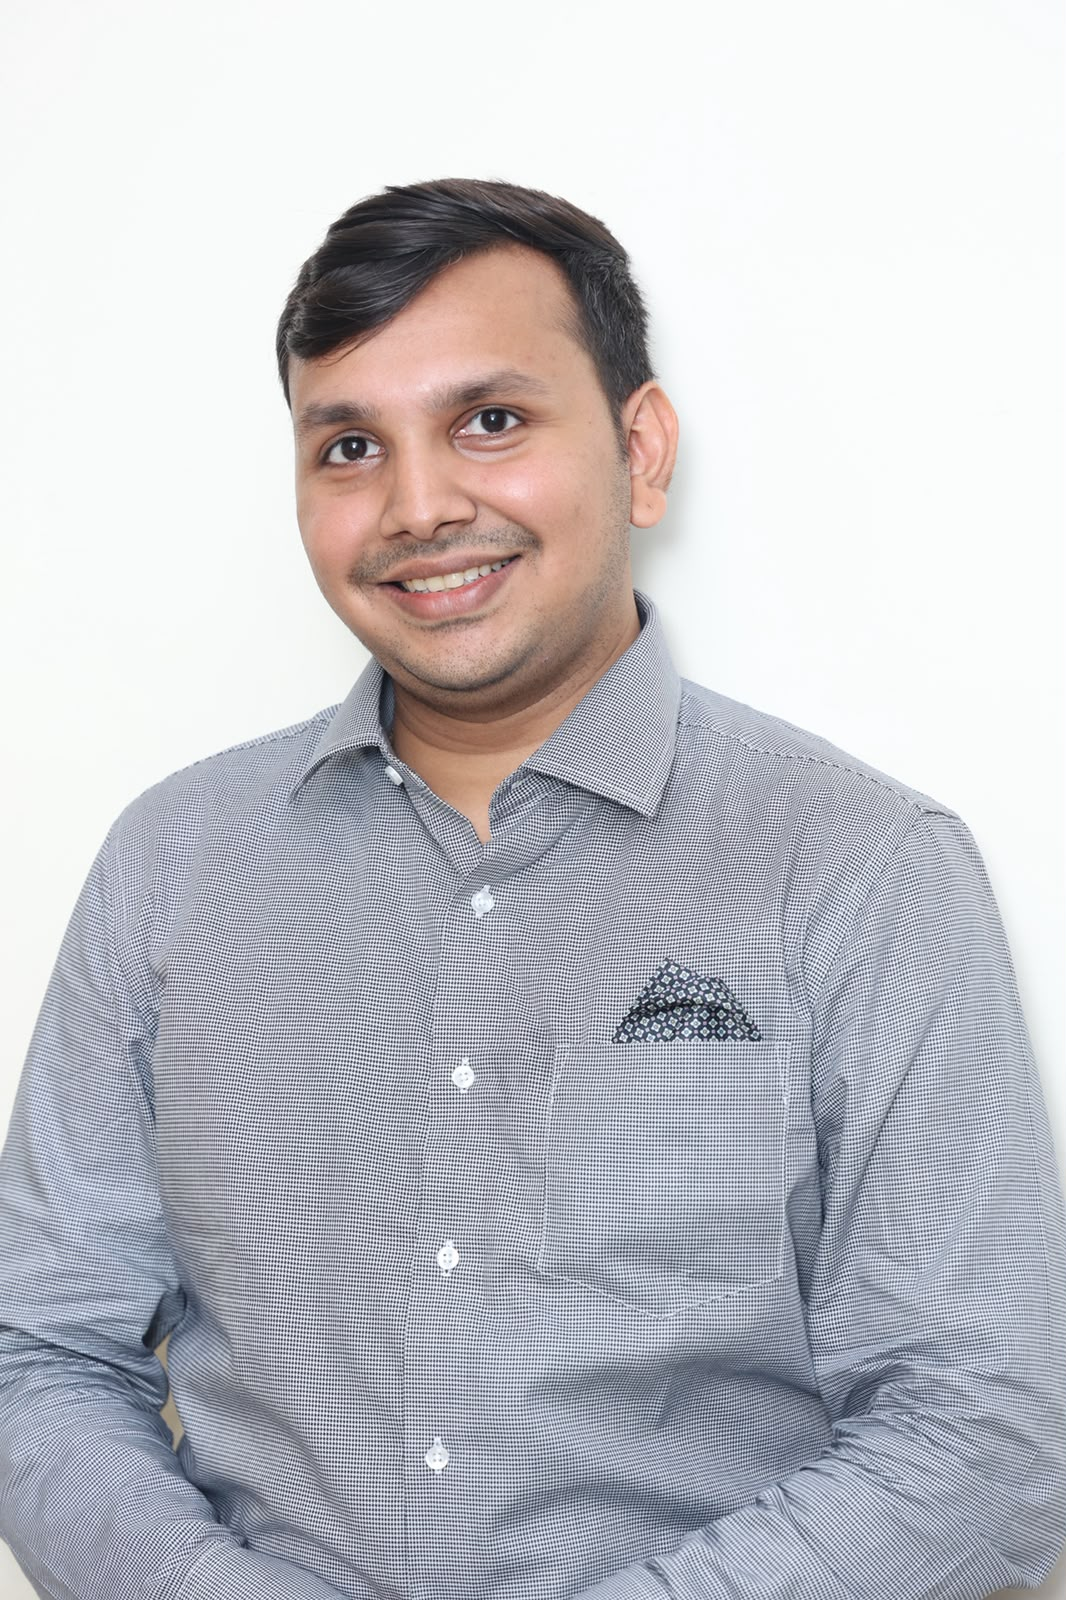
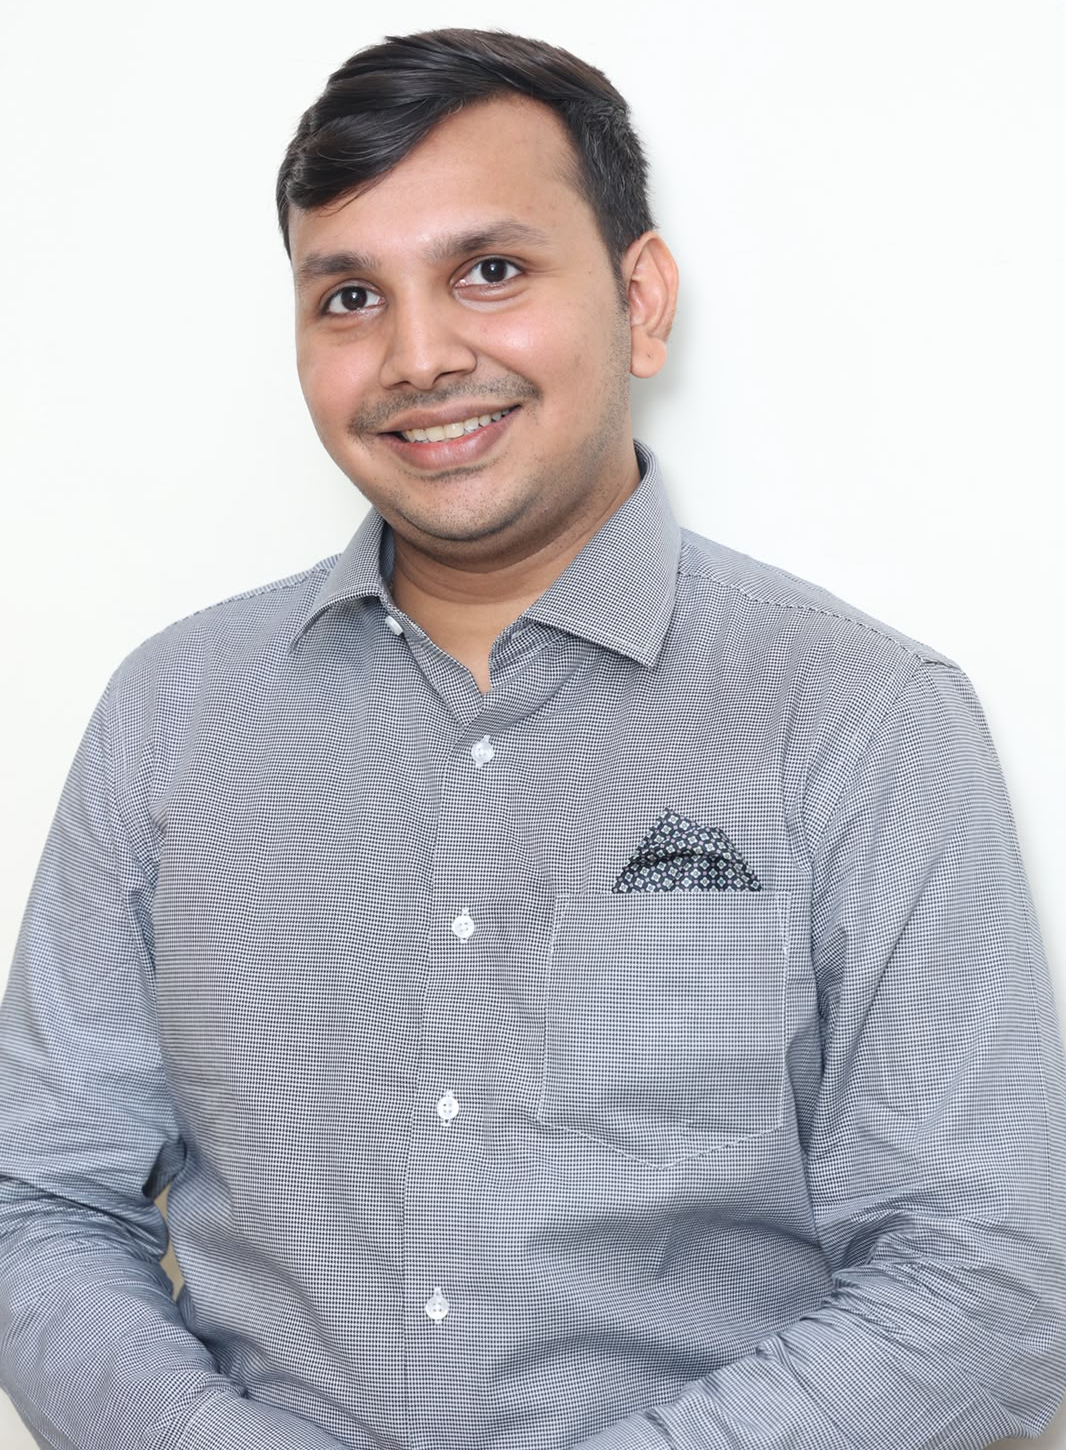
Crop Mahavir's photo and increase zoom in About.jsx for visual alignment

diff --git a/frontend/src/pages/public/About/About.jsx b/frontend/src/pages/public/About/About.jsx
@@ -165,7 +165,7 @@ function About() {
                     { name: "Ritik Raghav", title: "FOUNDER", imgPlaceholder: "/team-ritik.jpg", zoom: 1 },
                     { name: "Adv. Dev Pawar", title: "DIRECTOR", imgPlaceholder: "/team-dev-pawar.png", zoom: 1 },
                     { name: "Adv. Adarsh Kumar Singh", title: "LEGAL ADVISOR", imgPlaceholder: "/team-adarsh.png", zoom: 1 },
-                    { name: "Mr. Mahavir Mandot", title: "ACADEMIC ADVISOR", imgPlaceholder: "/team-mahavir.png", zoom: 1 },
+                    { name: "Mr. Mahavir Mandot", title: "ACADEMIC ADVISOR", imgPlaceholder: "/team-mahavir.png", zoom: 1.15 },
                     { name: "Jyotsna Valeja", title: "ACADEMIC EXECUTIVE", imgPlaceholder: "/team-jyotsna.jpg", zoom: 1 },
                     { name: "Ananya Aggarwal", title: "OPERATIONS MANAGER", imgPlaceholder: "/team-ananya.jpg", zoom: 1.25 },
                     { name: "Garv Yadav", title: "PARTNERSHIPS & PROGRAM EXECUTIVE", imgPlaceholder: "/team-garv.jpg", zoom: 1 }